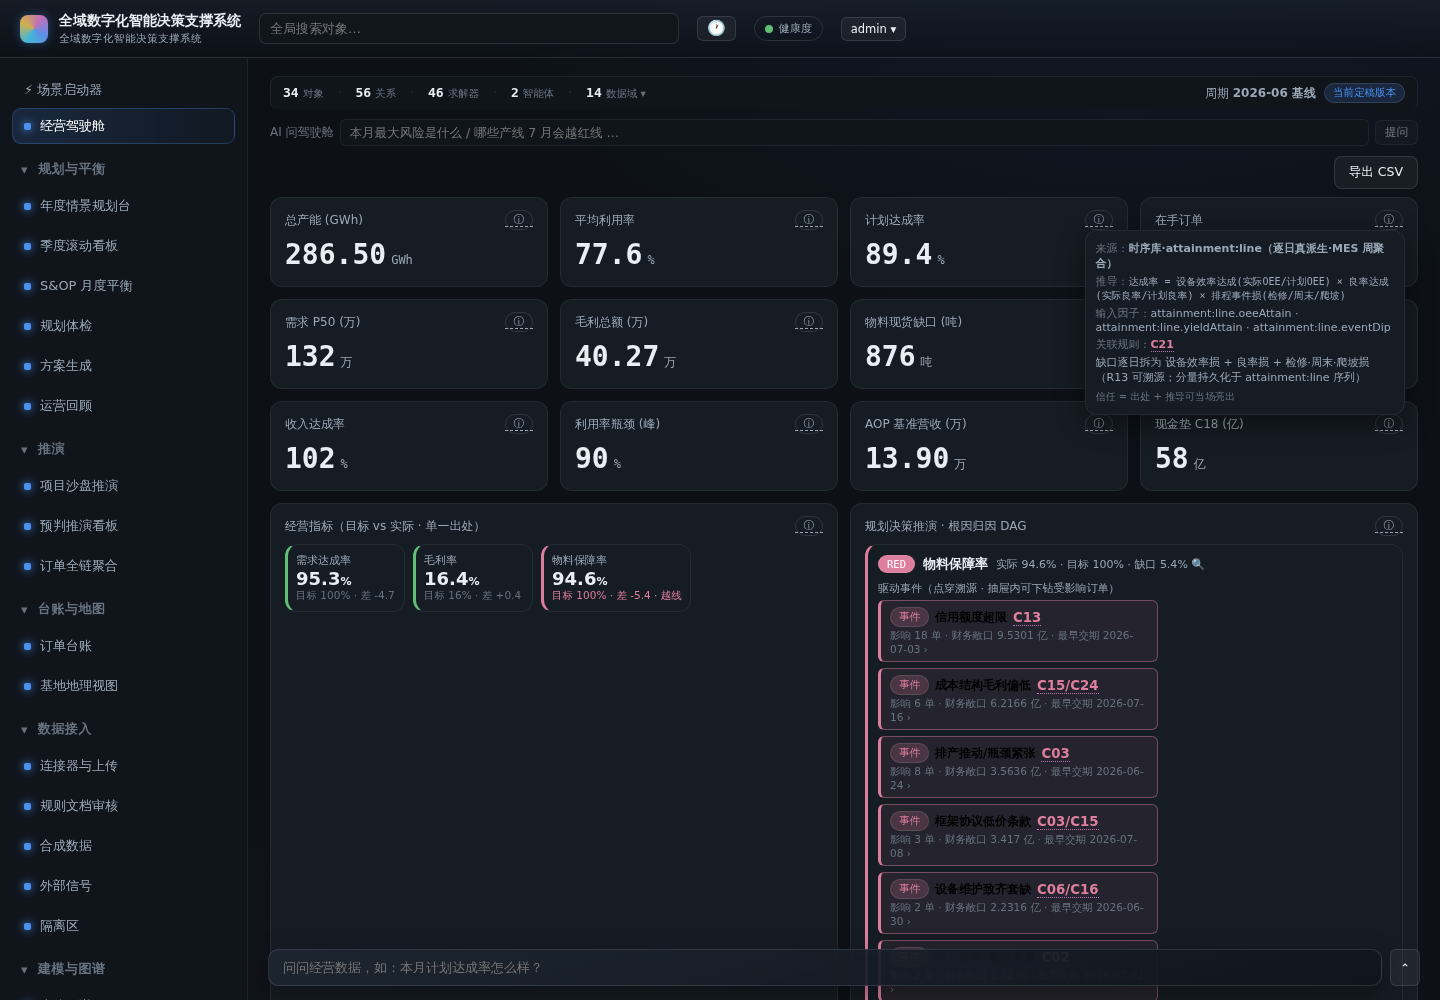
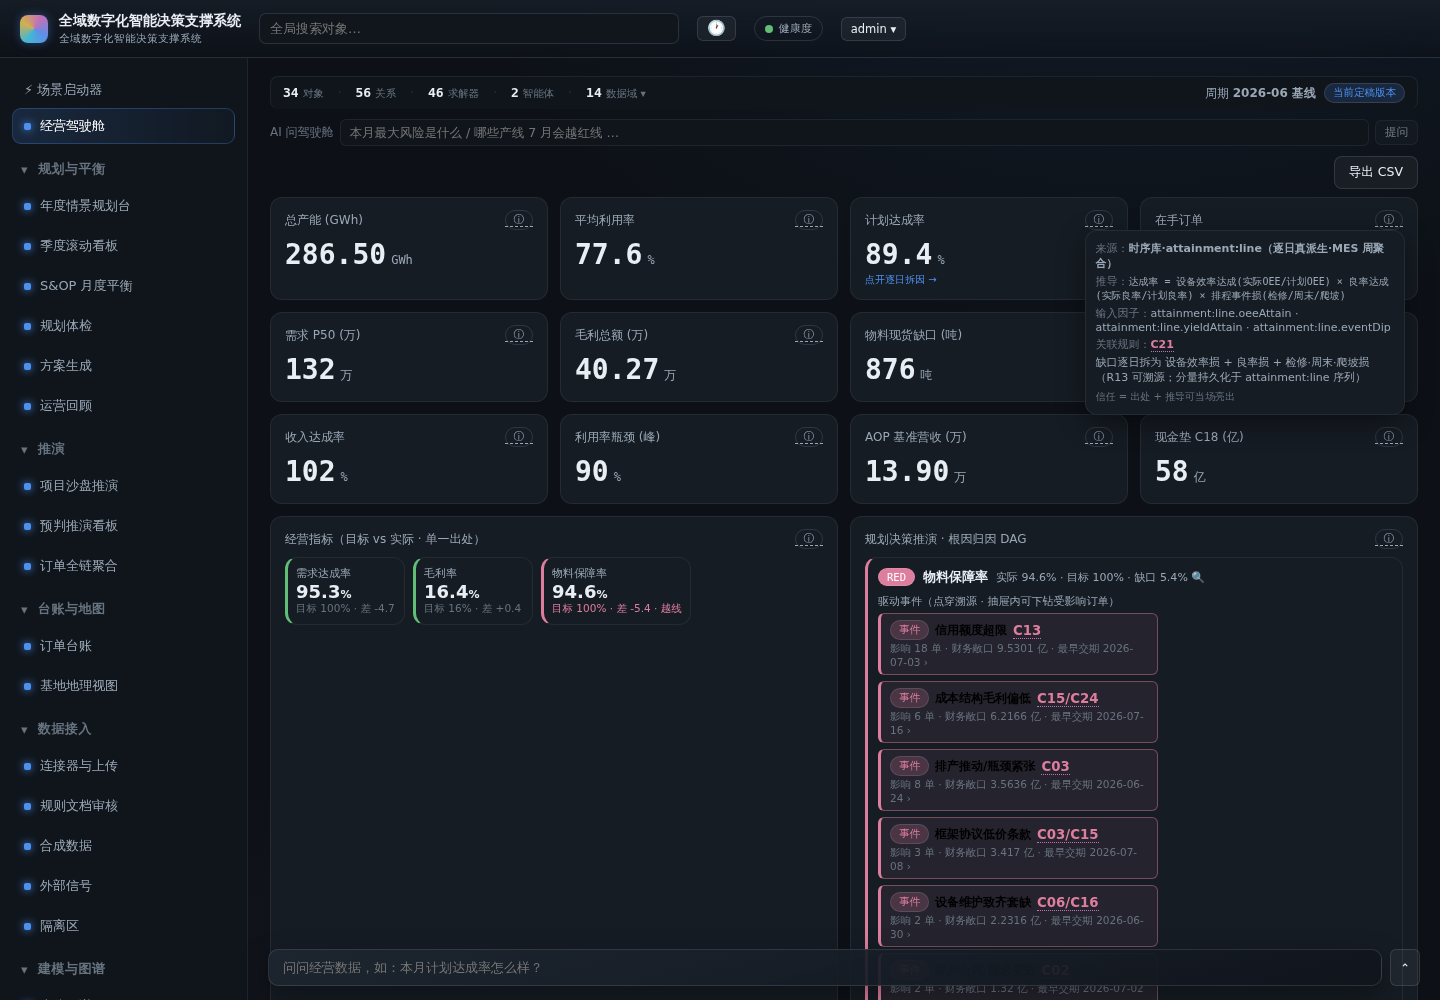
feat(attainment): 计划达成率逐日拆因下钻 — 点 KPI 看逐日 OEE/良率/事件损
复用 DagNodeDrawer（扩 breakdown 表，additive），点驾驶舱「计划达成率」KPI 弹
「逐日拆因」抽屉：近 14 日 达成率 = 设备效率达成 × 良率达成 × 排程事件损，
标掉日(低于期均·灰底) + 主因(缺口最大因子)。drill 配置驱动（widget def
drill:{kind,seriesKey}·R14），数据走 agg-query measureField 真派生分量（非写死）。

- DagNodeDrawer: DagDetail += breakdown(columns/rows/caption)，逐日表渲染 + dip 行高亮
- endpoints/types: queryTimeseriesAgg += measureField；DashboardWidgetDef += drill
- DashboardView: KpiDrillButton 跨产线按日聚合 4 分量 → 逐日表 + 主因归因
- service.ts/mocks: attain widget 声明 drill；mock agg-query 按 measureField 出分量
- FDE: 真后端真浏览器 7/7（含点 KPI→14 日拆因表，周末主因排程事件·余日设备效率）

Claude-Session: https://claude.ai/code/session_01PZXaTcFX8Vwew7vUHwzMM9

diff --git a/apps/frontend-shell/src/views/DashboardView.tsx b/apps/frontend-shell/src/views/DashboardView.tsx
@@ -8,6 +8,7 @@ import { Feature } from "@/workspace/featureGate";
 import { EChart } from "@/components/ui/EChart";
 import { Provenance } from "@/components/Provenance";
 import { ProvenanceDag, type DagData } from "@/components/ProvenanceDag";
+import { DagNodeDrawer, type DagDetail } from "@/components/DagNodeDrawer";
 import type { ViewRendererProps } from "./registry";
 import { useQuickLaunch } from "@/components/ScenarioLauncher/useScenarioLaunch";
 import zh from "@/locales/zh";
@@ -366,6 +367,90 @@ function useWidgetData(q: WidgetQueryDef) {
   });
 }
 
+/**
+ * 计划达成率逐日拆因下钻（R13 逐日可溯）：读 attainment:line 派生分量（oeeAttain/yieldAttain/eventDip），
+ * 跨产线按日聚合 → 逐日 达成率 = 设备效率达成 × 良率达成 × 排程事件损，标掉日(<期均) + 主因(缺口最大的因子)。
+ * 数据来自后端真派生序列（agg-query measureField 选择器），非前端写死（R14）。
+ */
+async function fetchAttainmentDecomp(seriesKey: string): Promise<DagDetail["breakdown"]> {
+  // 取近 14 个有数据的日：合成历史止于 forecastStart（≈今日前数周），故拉宽窗口（≤120 桶上限）后切末 14 日。
+  const to = new Date();
+  const from = new Date(to.getTime() - 118 * 86400_000);
+  const win = { from: from.toISOString().slice(0, 10), to: to.toISOString().slice(0, 10), grain: "day" };
+  const KEEP = 14;
+  const fields = ["attainment", "oeeAttain", "yieldAttain", "eventDip"] as const;
+  const byField = await Promise.all(
+    fields.map((mf) => queryTimeseriesAgg({ seriesKey, entityIds: [], window: win, agg: "avg", measureField: mf })),
+  );
+  // 跨产线按 bucket 平均（headline 口径 = 各线均值），逐日聚成一行。
+  const dayMap = new Map<string, Record<string, { sum: number; n: number }>>();
+  fields.forEach((mf, fi) => {
+    for (const p of byField[fi]!.points) {
+      const row = dayMap.get(p.bucket) ?? {};
+      const cur = row[mf] ?? { sum: 0, n: 0 };
+      row[mf] = { sum: cur.sum + p.value, n: cur.n + 1 };
+      dayMap.set(p.bucket, row);
+    }
+  });
+  const days = [...dayMap.entries()].sort((a, b) => (a[0] < b[0] ? -1 : 1)).slice(-KEEP);
+  if (days.length === 0) return { columns: ["日期"], rows: [], caption: "暂无逐日派生数据（需真后端 attainment:line 序列）" };
+  const avg = (r: Record<string, { sum: number; n: number }>, k: string) => (r[k] && r[k]!.n ? r[k]!.sum / r[k]!.n : 0);
+  const periodAvg = days.reduce((s, [, r]) => s + avg(r, "attainment"), 0) / days.length;
+  const rows = days.map(([date, r]) => {
+    const at = avg(r, "attainment"), oee = avg(r, "oeeAttain"), yld = avg(r, "yieldAttain"), evt = avg(r, "eventDip");
+    // 主因 = 距 1.0 缺口最大的因子
+    const losses: [string, number][] = [["设备效率", 1 - oee], ["良率", 1 - yld], ["排程事件", 1 - evt]];
+    losses.sort((a, b) => b[1] - a[1]);
+    const cause = losses[0]![1] > 0.005 ? losses[0]![0] : "—";
+    return {
+      cells: [date.slice(5), `${(at * 100).toFixed(1)}%`, `${(oee * 100).toFixed(1)}%`, `${(yld * 100).toFixed(1)}%`, evt < 0.999 ? `${(evt * 100).toFixed(0)}%` : "—", cause],
+      dip: at < periodAvg - 0.005,
+    };
+  });
+  return {
+    columns: ["日期", "达成率", "设备效率达成", "良率达成", "排程事件损", "主因"],
+    rows,
+    caption: `近 ${days.length} 日逐日拆解（达成率 = 设备效率达成 × 良率达成 × 排程事件损）·灰底=低于期均 ${(periodAvg * 100).toFixed(1)}%·主因=缺口最大因子`,
+  };
+}
+
+function KpiDrillButton({ def, value, scale }: { def: DashboardWidgetDef; value: unknown; scale?: number }) {
+  const [open, setOpen] = useState(false);
+  const { data: breakdown, isFetching } = useQuery({
+    queryKey: ["attain-decomp", def.drill?.seriesKey],
+    queryFn: () => fetchAttainmentDecomp(def.drill!.seriesKey),
+    enabled: open && !!def.drill,
+  });
+  return (
+    <>
+      <button
+        type="button"
+        data-testid={`kpi-drill-${def.key}`}
+        onClick={() => setOpen(true)}
+        title="点开逐日拆因"
+        style={{ background: "none", border: "none", padding: 0, cursor: "pointer", textAlign: "left", color: "inherit", font: "inherit" }}
+      >
+        <KpiWidget value={value} unit={def.unit} scale={scale} />
+        <span style={{ fontSize: 10, color: "var(--accent,#6ea8fe)" }}>点开逐日拆因 →</span>
+      </button>
+      {open && (
+        <DagNodeDrawer
+          onClose={() => setOpen(false)}
+          detail={{
+            title: `${def.title} · 逐日拆因`,
+            src: def.provenance?.sourceSystem ?? "时序库·attainment:line",
+            formula: def.provenance?.formula ?? "达成率 = 设备效率达成 × 良率达成 × 排程事件损",
+            inputs: def.provenance?.inputs,
+            rule: def.provenance?.ruleRefs,
+            note: isFetching ? "加载逐日派生数据…" : def.provenance?.note,
+            breakdown: breakdown ?? { columns: ["日期"], rows: [], caption: isFetching ? "加载中…" : "" },
+          }}
+        />
+      )}
+    </>
+  );
+}
+
 function Widget({ def }: { def: DashboardWidgetDef }) {
   const { data, isLoading } = useWidgetData(def.query);
 
@@ -393,7 +478,7 @@ function Widget({ def }: { def: DashboardWidgetDef }) {
       {isLoading ? (
         <div style={{ color: "var(--muted2)" }}>{zh.common.loading}</div>
       ) : def.type === "kpi" ? (
-        <KpiWidget value={data} unit={def.unit} scale={def.scale} />
+        def.drill ? <KpiDrillButton def={def} value={data} scale={def.scale} /> : <KpiWidget value={data} unit={def.unit} scale={def.scale} />
       ) : def.type === "chart" ? (
         <ChartWidget data={data} kind={def.chartKind ?? "line"} series={def.chartSeries} />
       ) : def.type === "summary" ? (

diff --git a/apps/frontend-shell/src/components/DagNodeDrawer.tsx b/apps/frontend-shell/src/components/DagNodeDrawer.tsx
@@ -17,6 +17,12 @@ export interface DagDetail {
   note?: string;
   /** 可选下钻动作（如 event 节点"查看受影响订单"）——保上下文的就地跳转。 */
   action?: { label: string; onClick: () => void };
+  /** 可选逐日拆因表（如计划达成率：逐日 达成率 = 设备效率达成 × 良率达成 × 排程事件损，标主因）。 */
+  breakdown?: {
+    columns: string[];
+    rows: { cells: (string | number)[]; dip?: boolean }[];
+    caption?: string;
+  };
 }
 
 export function DagNodeDrawer({ detail, onClose }: { detail: DagDetail; onClose: () => void }) {
@@ -70,6 +76,33 @@ export function DagNodeDrawer({ detail, onClose }: { detail: DagDetail; onClose:
             )}
           </tbody>
         </table>
+        {detail.breakdown && detail.breakdown.rows.length > 0 && (
+          <div style={{ marginTop: 12 }} data-testid="dag-node-breakdown">
+            {detail.breakdown.caption && (
+              <div style={{ fontSize: 11, color: "var(--muted2)", marginBottom: 6 }}>{detail.breakdown.caption}</div>
+            )}
+            <div style={{ maxHeight: 280, overflowY: "auto" }}>
+              <table className="cmp" style={{ fontSize: 11 }}>
+                <thead>
+                  <tr>
+                    {detail.breakdown.columns.map((c) => (
+                      <th key={c} style={{ textAlign: "left", color: "var(--muted2)", fontWeight: 500 }}>{c}</th>
+                    ))}
+                  </tr>
+                </thead>
+                <tbody>
+                  {detail.breakdown.rows.map((r, i) => (
+                    <tr key={i} style={r.dip ? { background: "var(--line2)" } : undefined} data-testid={r.dip ? "breakdown-dip-row" : "breakdown-row"}>
+                      {r.cells.map((cell, j) => (
+                        <td key={j} className={j > 0 ? "mono" : undefined}>{cell}</td>
+                      ))}
+                    </tr>
+                  ))}
+                </tbody>
+              </table>
+            </div>
+          </div>
+        )}
         {detail.action && (
           <button className="btn sm" style={{ marginTop: 10 }} data-testid="dag-node-action" onClick={detail.action.onClick}>
             {detail.action.label}

diff --git a/apps/frontend-shell/src/mocks/handlers.ts b/apps/frontend-shell/src/mocks/handlers.ts
@@ -1120,7 +1120,25 @@ export const handlers = [
   }),
 
   // ---- 时序聚合查询（A8.4，无任何参数组合可返回原始行） ----
-  http.post("*/a/v1/timeseries/agg-query", () => HttpResponse.json({ points: TS_AGG_POINTS })),
+  // 计划达成率逐日拆因（drill）：按 measureField 返回各分量（达成率=设备效率达成×良率达成×排程事件损）。
+  http.post("*/a/v1/timeseries/agg-query", async ({ request }) => {
+    const body = (await request.json().catch(() => ({}))) as { seriesKey?: string; measureField?: string };
+    if (body.seriesKey === "attainment:line") {
+      const mf = body.measureField ?? "attainment";
+      const points = Array.from({ length: 14 }, (_, i) => {
+        const day = i + 1;
+        const dow = new Date(`2026-06-${String(day).padStart(2, "0")}T00:00:00Z`).getUTCDay();
+        const eventDip = dow === 0 || dow === 6 ? 0.88 : 1; // 周末减产
+        const oeeAttain = Number((0.93 + Math.sin(i * 0.7) * 0.03).toFixed(4)); // 设备效率达成 ~0.78/0.85
+        const yieldAttain = Number((0.982 + Math.cos(i * 0.5) * 0.008).toFixed(4)); // 良率达成 ~0.952/0.97
+        const attainment = Number((oeeAttain * yieldAttain * eventDip).toFixed(4));
+        const value = mf === "oeeAttain" ? oeeAttain : mf === "yieldAttain" ? yieldAttain : mf === "eventDip" ? eventDip : attainment;
+        return { entityId: "LINE-changzhou", bucket: `2026-06-${String(day).padStart(2, "0")}`, value };
+      });
+      return HttpResponse.json({ points });
+    }
+    return HttpResponse.json({ points: TS_AGG_POINTS });
+  }),
 
   // ---- 连接器 ----
   http.get("*/a/v1/connector-types", () => HttpResponse.json(CONNECTOR_TYPES)),

diff --git a/apps/datacore/src/synthetic/service.ts b/apps/datacore/src/synthetic/service.ts
@@ -1038,6 +1038,7 @@ export class SyntheticService {
         },
         {
           key: "attain", type: "kpi", title: "计划达成率", unit: "%", scale: 100,
+          drill: { kind: "attainment-decomp", seriesKey: "attainment:line" },
           query: { kind: "objects-aggregate", objectType: "Line", agg: "avg", prop: "schedule_attainment" },
           provenance: { toolName: "query_timeseries_agg", outputPath: "$.avg(schedule_attainment)", formula: "达成率 = 设备效率达成(实际OEE/计划OEE) × 良率达成(实际良率/计划良率) × 排程事件损(检修/周末/爬坡)", label: "avg(Line.schedule_attainment) 周聚合·真派生", ruleRefs: "C21", inputs: ["attainment:line.oeeAttain", "attainment:line.yieldAttain", "attainment:line.eventDip"], sourceSystem: "时序库·attainment:line（逐日真派生·MES 周聚合）", note: "缺口逐日拆为 设备效率损 + 良率损 + 检修·周末·爬坡损（R13 可溯源；分量持久化于 attainment:line 序列）" },
         },

diff --git a/apps/frontend-shell/src/mocks/fixtures.ts b/apps/frontend-shell/src/mocks/fixtures.ts
@@ -262,6 +262,7 @@ const DASH_LAYOUT = {
       type: "kpi",
       title: "计划达成率",
       unit: "%",
+      drill: { kind: "attainment-decomp", seriesKey: "attainment:line" },
       query: { kind: "solver", solverKey: "schedule_attainment", args: {}, valuePath: "value" },
       provenance: { toolName: "query_timeseries_agg", outputPath: "$.value", snapshotVersion: "agg-77", formula: "达成率 = 设备效率达成(实际OEE/计划OEE) × 良率达成(实际良率/计划良率) × 排程事件损(检修/周末/爬坡)", inputs: ["attainment:line.oeeAttain", "attainment:line.yieldAttain", "attainment:line.eventDip"], sourceSystem: "时序库·attainment:line（逐日真派生·MES 周聚合）", note: "缺口逐日拆为 设备效率损 + 良率损 + 检修·周末·爬坡损（R13 可溯源；分量持久化于 attainment:line 序列）" },
     },

diff --git a/apps/frontend-shell/src/api/types.ts b/apps/frontend-shell/src/api/types.ts
@@ -114,6 +114,9 @@ export interface DashboardWidgetDef {
   chartKind?: "line" | "bar" | "trideviation";
   /** 三线偏差复合图（trideviation）的系列声明：data 各项的数值字段 → 线名/色。 */
   chartSeries?: { key: string; name: string; color?: string }[];
+  /** KPI 可点开下钻（配置驱动 R14）：attainment-decomp = 计划达成率逐日拆因
+   *  （逐日 达成率 = 设备效率达成 × 良率达成 × 排程事件损，标掉日+主因），读 seriesKey 派生分量。 */
+  drill?: { kind: "attainment-decomp"; seriesKey: string };
 }
 
 export type WidgetQueryDef =

diff --git a/apps/frontend-shell/src/api/endpoints.ts b/apps/frontend-shell/src/api/endpoints.ts
@@ -249,6 +249,8 @@ export const queryTimeseriesAgg = (input: {
   entityIds: string[];
   window: { from: string; to: string; grain: string };
   agg: string;
+  /** 选非主测度（如派生达成率分量 oeeAttain/yieldAttain/eventDip，逐日拆因 R13）。 */
+  measureField?: string;
 }) => api.a<QueryTimeseriesAggOutput>("/a/v1/timeseries/agg-query", { body: input });
 
 // 数据接入分类（数据接入控制台）：按业务域归类 + 每类接入方式 + 上传模版（可看可下载）。

diff --git a/docs/evidence/attainment-derive-fde.md b/docs/evidence/attainment-derive-fde.md
@@ -49,7 +49,15 @@
 - datacore 751 测 + 新 `attainment-derive.test.ts` 4 测（分解算术 / measureField 选择器 / 未知→400 / R6 字节一致）
 - frontend 279 测 · agentcore build · gates：cockpit-widgets / traceability 全绿
 
+## 逐日拆因下钻（继续增量·已落）
+
+点驾驶舱「计划达成率」KPI → 复用 `DagNodeDrawer`（扩 `breakdown` 表）弹「逐日拆因」抽屉：
+近 14 日逐日 `达成率 = 设备效率达成 × 良率达成 × 排程事件损`，标掉日（低于期均·灰底）+ 主因（缺口最大因子）。
+drill 配置驱动（widget def `drill:{kind,seriesKey}`，R14），数据走 `agg-query measureField` 真派生分量（非写死）。
+实拍 `docs/evidence/attainment-decomp-drill-fde.png`：14 日表，05-30/05-31 周末 主因「排程事件」(eventDip 86%)，
+余日 主因「设备效率」；算术自洽（05-27: 90.5%×98.2%×98% ≈ 86.8%）。FDE 7/7 全绿。
+
 ## 距北极星还差什么（诚实）
 
-- ✅ 真做到：达成率真派生 + 逐日分量持久化 + 可查 + UI 悬浮显分解。
-- 📏 **未做（本次范围外）**：① 驾驶舱暂无"点开 KPI → 逐日拆因瀑布图/堆叠条"的专屏下钻（现为悬浮文案 + API 可查，未建独立可视化页，避免硬造壳）；② OEE/良率分量为镜像分布、非与该线具体设备/工序逐台 join（同源同分布、确定性，但非逐设备勾稽）——若要"点达成率→点到具体停机设备"需再接 oee:equip×line 拓扑聚合，属后续增量。
+- ✅ 真做到：达成率真派生 + 逐日分量持久化 + 可查 + UI 悬浮显分解 + **点 KPI 逐日拆因下钻**。
+- 📏 **未做（后续增量）**：OEE/良率分量为镜像分布、非与该线具体设备/工序逐台 join（同源同分布、确定性，但非逐设备勾稽）——若要"点达成率→点到具体停机设备/工序"需再接 `oee:equip × line` 拓扑聚合。
